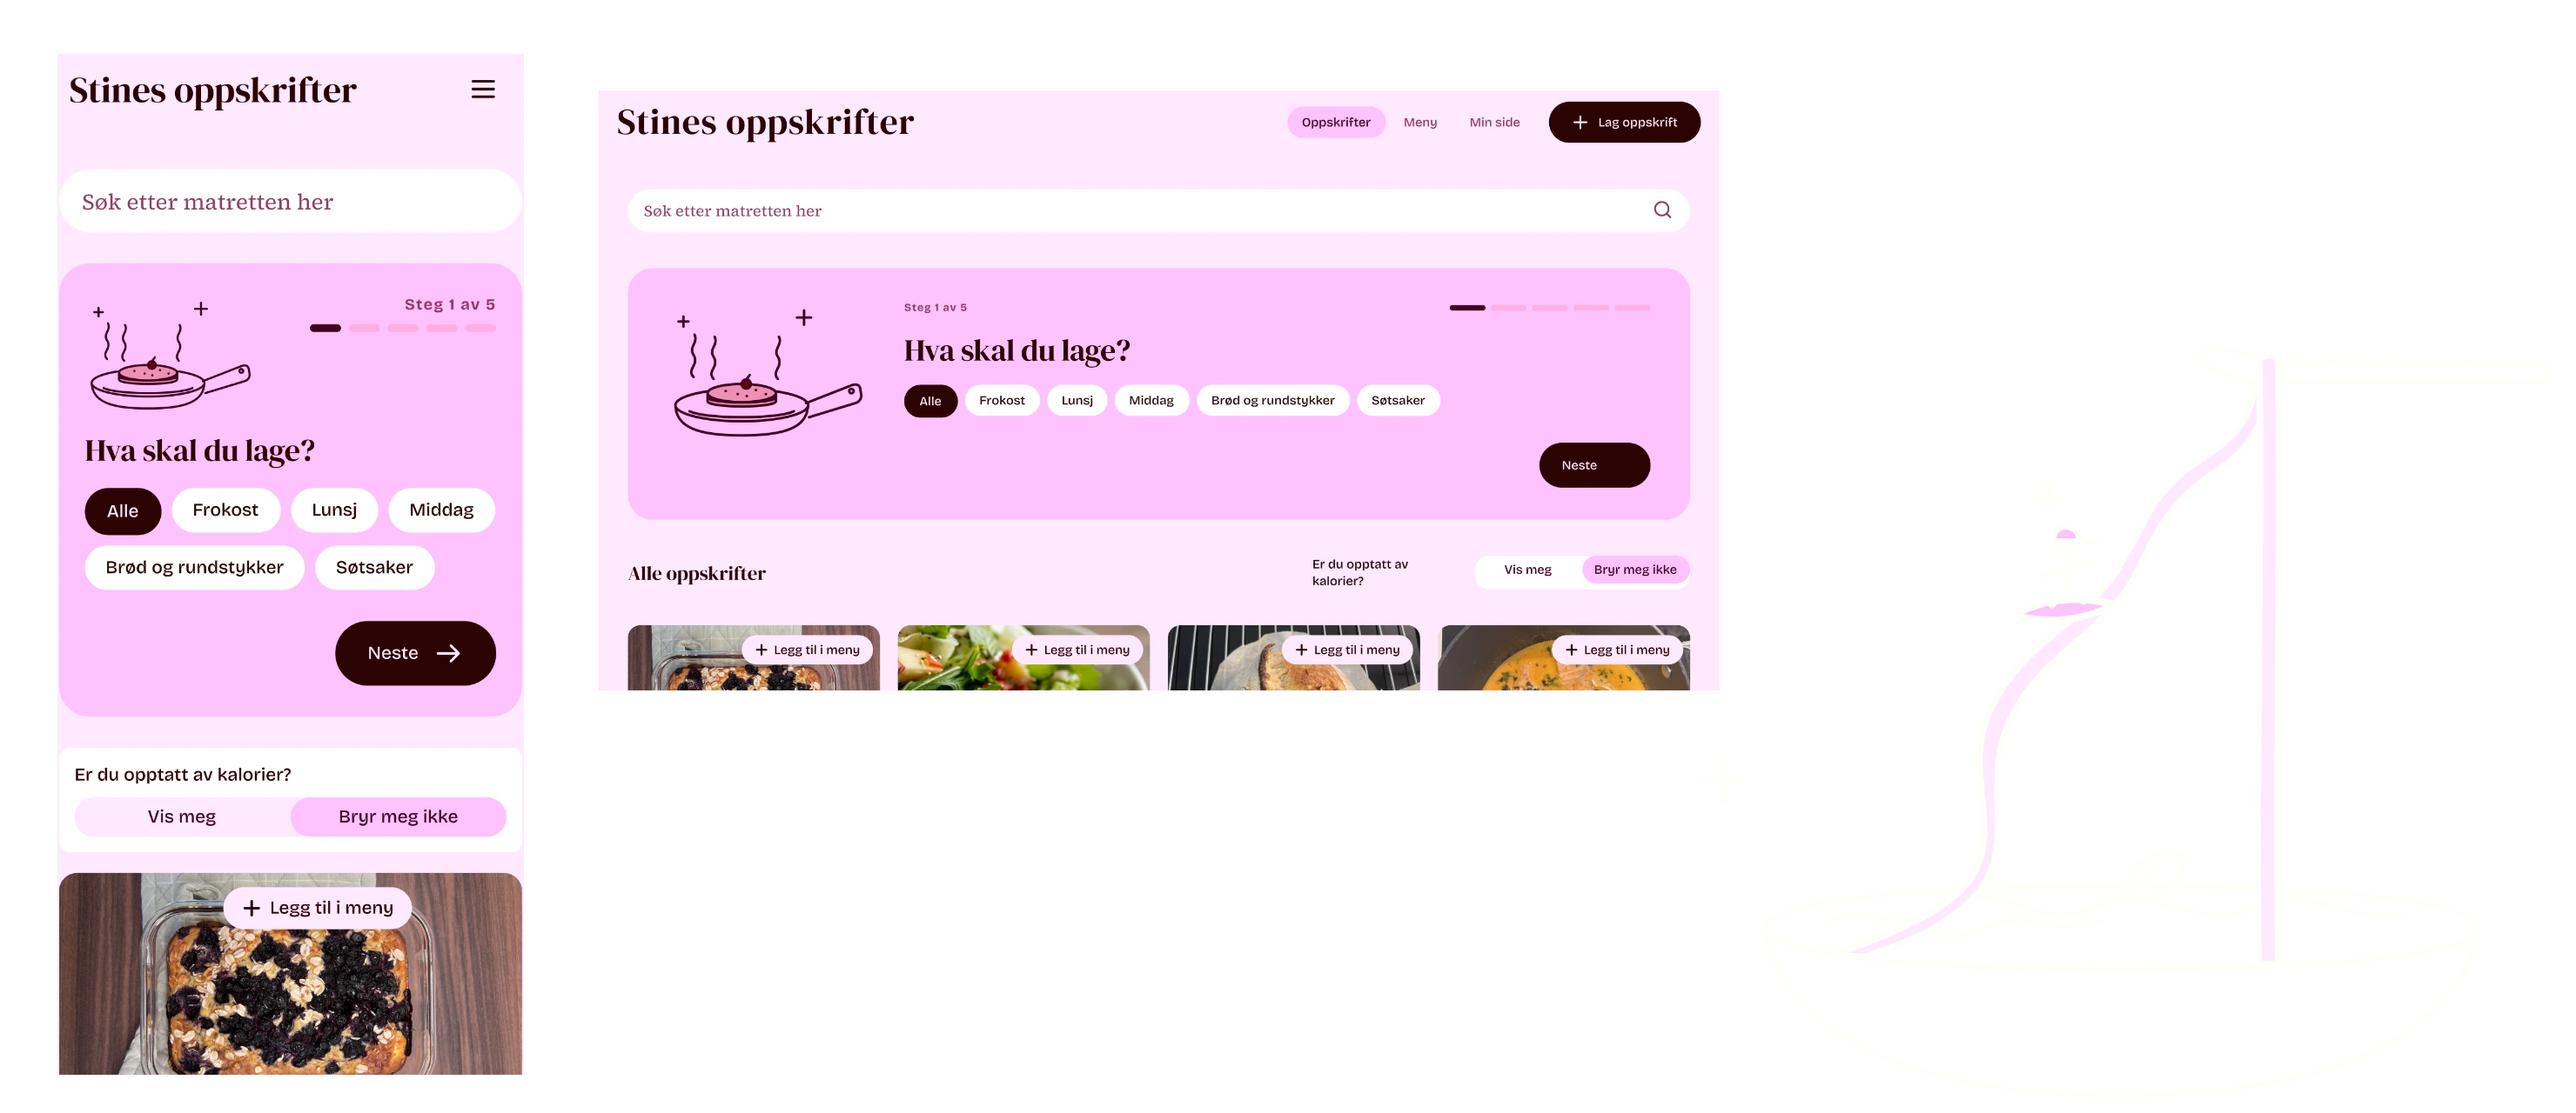
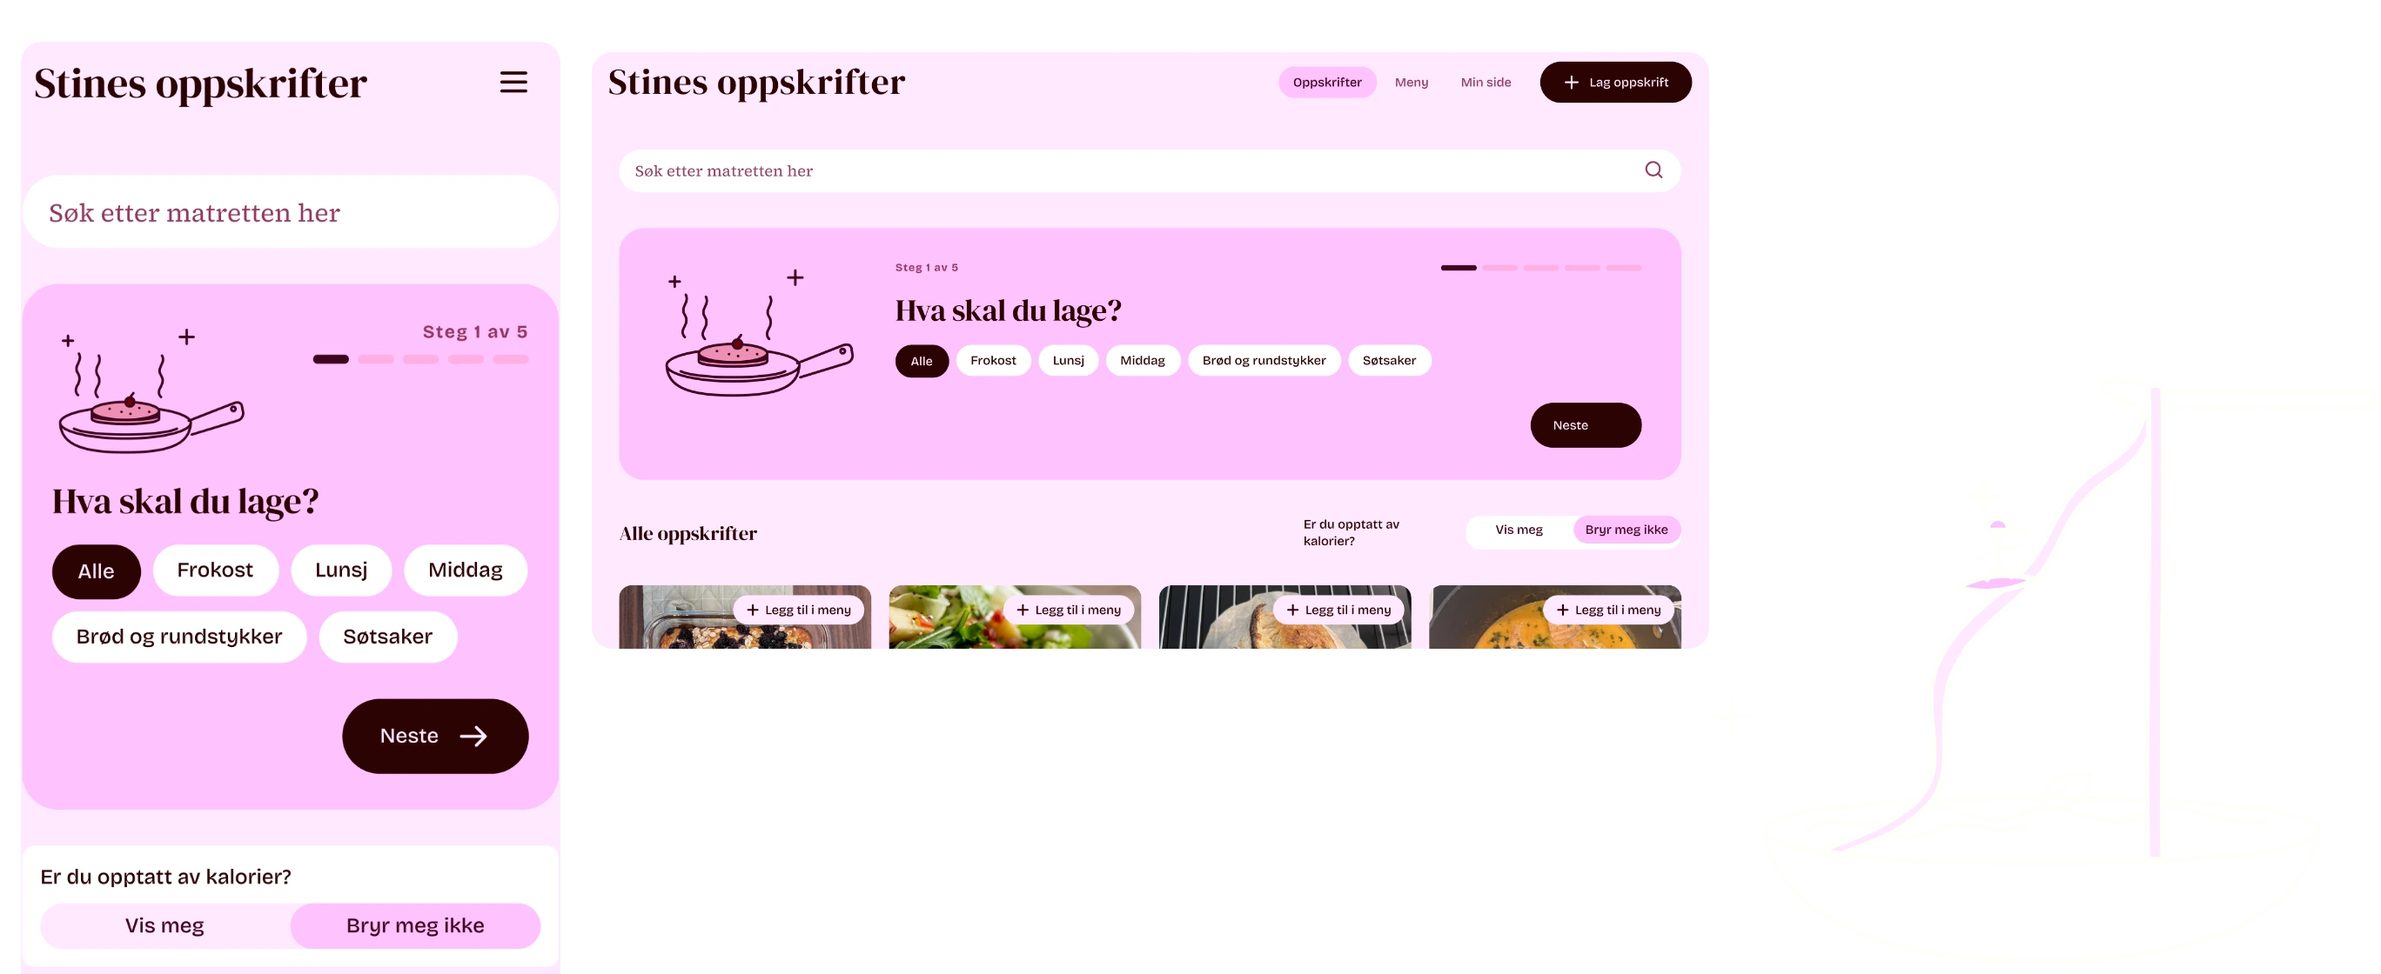
Stines oppskrifter: bigger screens on the thumbnail, with a small border radius

diff --git a/app/data/thumbnails.ts b/app/data/thumbnails.ts
@@ -74,7 +74,7 @@ export const thumbnails = {
   },
   oppskrifter: {
     foregroundSrc: "/stines-oppskrifter/thumbnail-fg.webp",
-    foregroundSize: { width: 1480, height: 640 },
+    foregroundSize: { width: 1368, height: 560 },
     backgroundSrc: "/stines-oppskrifter/thumbnail-bg.webp",
     backgroundPosition: "center bottom",
     backgroundColor: "#ffffff",
